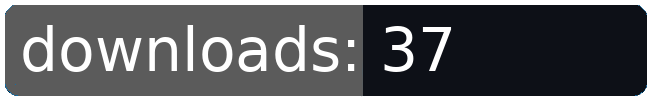
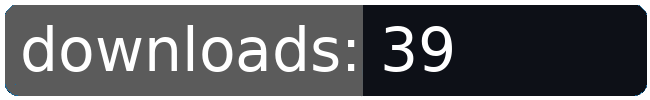
dl log written

Changed region(s): [[0.6462, 0.24, 0.7077, 0.72]]

diff --git a/README.md b/README.md
@@ -219,8 +219,8 @@
 		<td>6</td>
 		<td>21</td>
 		<td>35</td>
-		<td>37</td>
-		<td>+ 2</td>
+		<td>39</td>
+		<td>+ 4</td>
 	</tr>
 	<tr>
 		<td>highrollers.ltd</td>
@@ -318,8 +318,8 @@
 		<td>3993</td>
 		<td>4018</td>
 		<td>4045</td>
-		<td>4055</td>
-		<td>+ 10</td>
+		<td>4057</td>
+		<td>+ 12</td>
 	</tr>
 	<tr>
 		<td>mission.helper</td>
@@ -516,8 +516,8 @@
 		<td></td>
 		<td></td>
 		<td></td>
-		<td>163874</td>
-		<td>388</td>
+		<td>163878</td>
+		<td>392</td>
 	</tr>
 </table>
 </sub></sup>
@@ -707,8 +707,8 @@
 		<td>3993</td>
 		<td>4018</td>
 		<td>4045</td>
-		<td>4055</td>
-		<td>+ 10</td>
+		<td>4057</td>
+		<td>+ 12</td>
 	</tr>
 	<tr>
 		<td>kor.efret.shipyard</td>
@@ -1026,8 +1026,8 @@
 		<td>6</td>
 		<td>21</td>
 		<td>35</td>
-		<td>37</td>
-		<td>+ 2</td>
+		<td>39</td>
+		<td>+ 4</td>
 	</tr>
 	<tr>
 		<td></td>
@@ -1037,8 +1037,8 @@
 		<td></td>
 		<td></td>
 		<td></td>
-		<td>163874</td>
-		<td>388</td>
+		<td>163878</td>
+		<td>392</td>
 	</tr>
 </table>
 </sub></sup>
